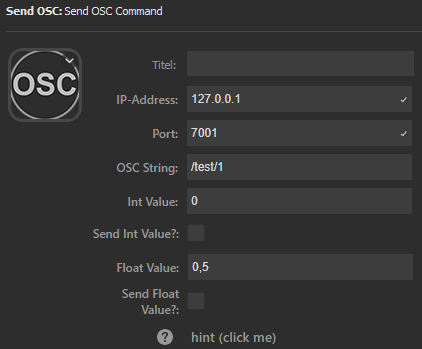
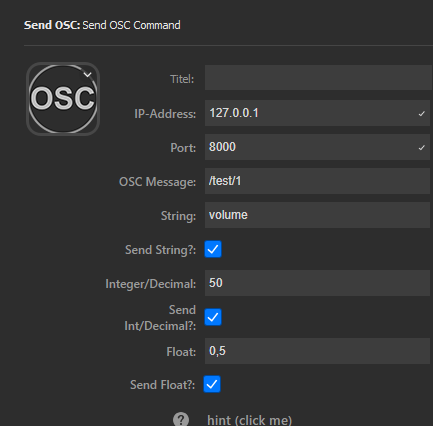
minor readme update

diff --git a/README.md b/README.md
@@ -17,14 +17,14 @@ Inside the Release-folder you can find the precompiled plugin. Download and open
 ## Usage
 ### General
 
-Enter IP and Port of your OSC device, enter the String you want to send, for example "/hardwareInput/1/volume" which depends on the system you're using. As said, every device or software uses a different structure.
-You can send an integer number and a float number with the string, if it's needed. You can also send both. Check the corresponding checkboxes to have the values send with the string arguments.
-In OSC there are a lot more options that can be required as arguments, including strings, big ints and blobs - in varying sequence. I did not implement that.
+Enter IP and Port of your OSC device, enter the message you want to send, for example "/hardwareInput/1/volume" which depends on the system you're using. As said, every device or software uses a different structure.
+You can send string, an integer number and a float number as argument with the message, if it's needed. You can send all, some or none. Check the corresponding checkboxes to have the values send as arguments.
+In OSC there are a lot more options that can be required as arguments, including multiple strings, multiple ints, big ints and blobs - in varying order. I did not implement that all.
 
 # Limitations
 
 - Windows 10 with .NET Framework is required to run this plugin.
-- Currently limited to sending strings with optional arguments integer and float (which should cover most implementations, I guess)
+- Currently limited to sending messages with optional arguments string, integer and float (which should cover most implementations, I guess)
 
 # I have an issue or miss a feature?
 
